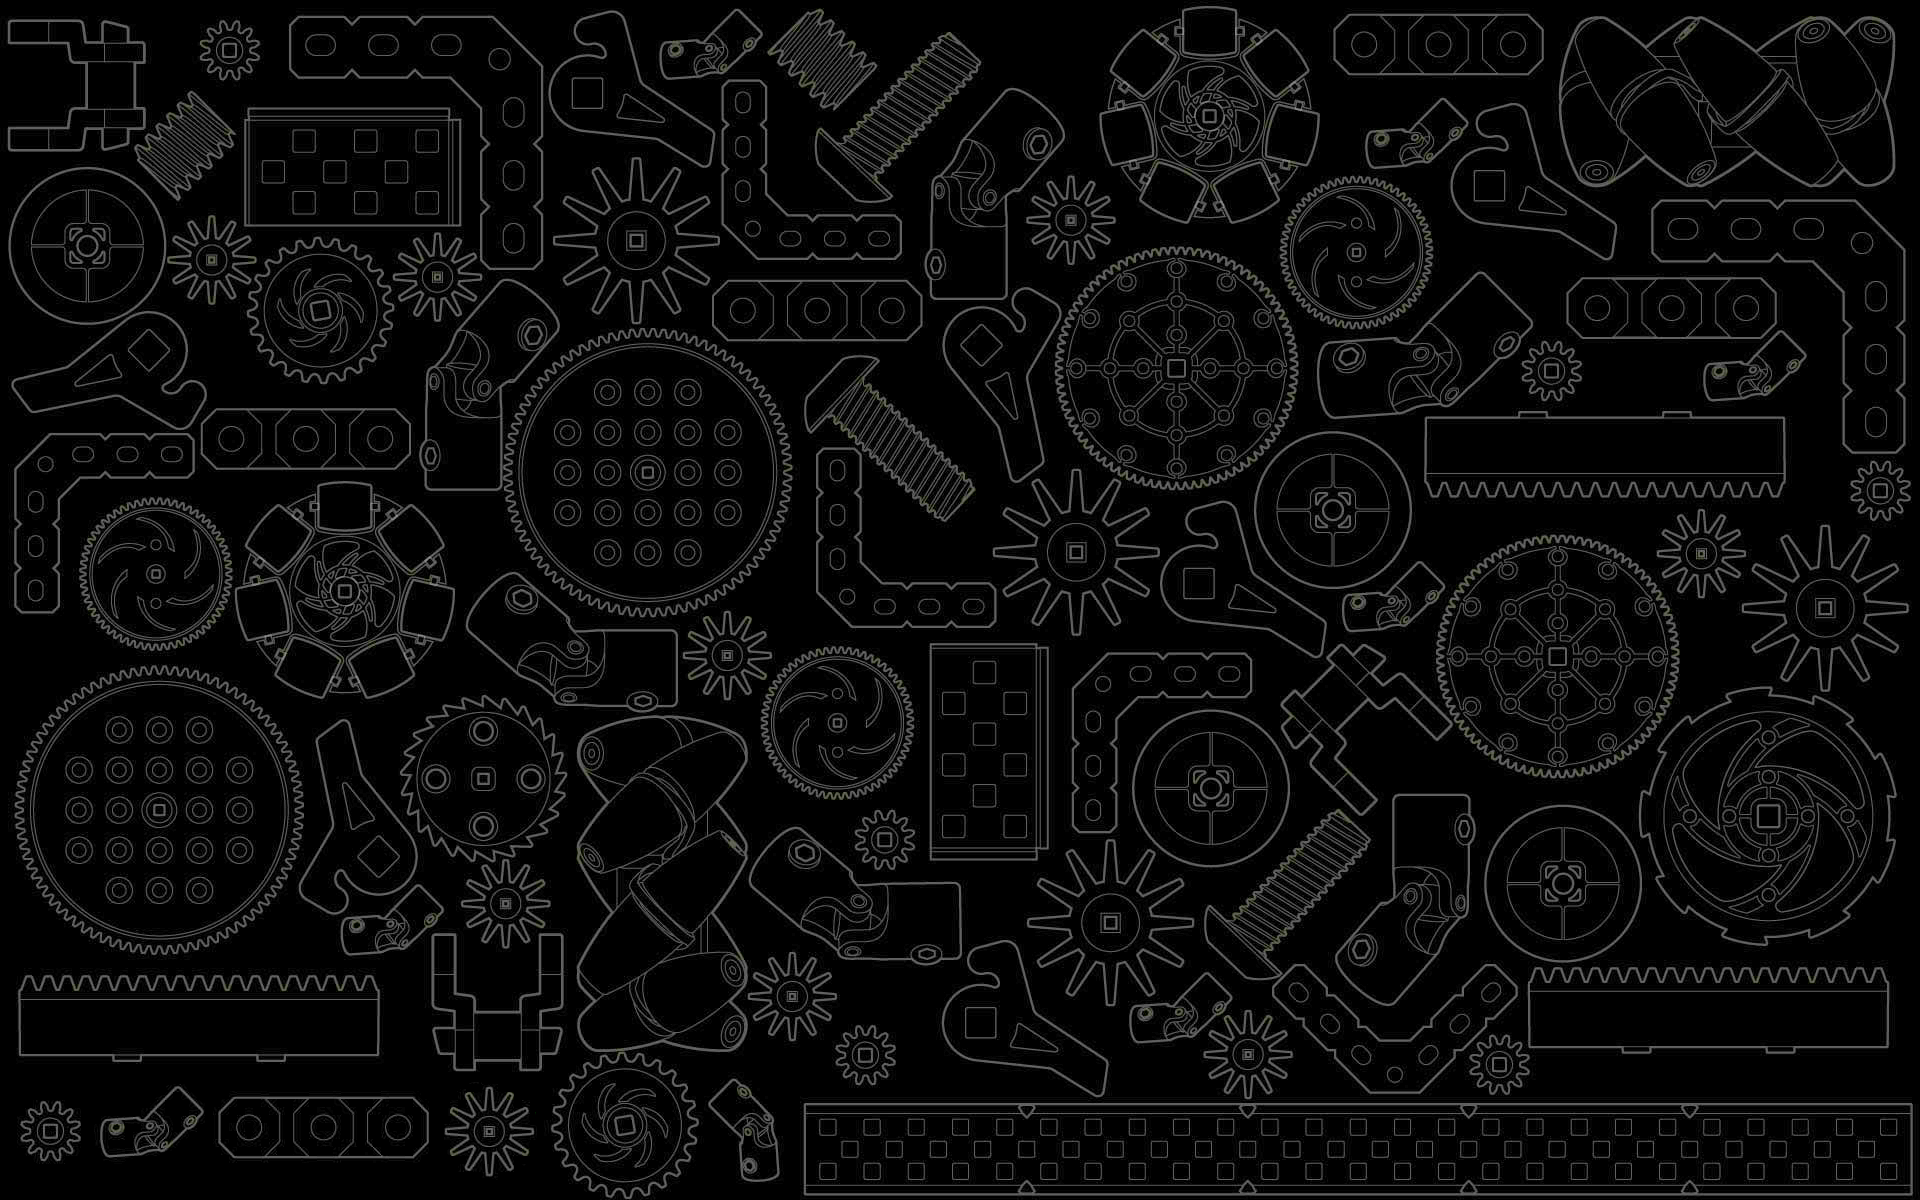
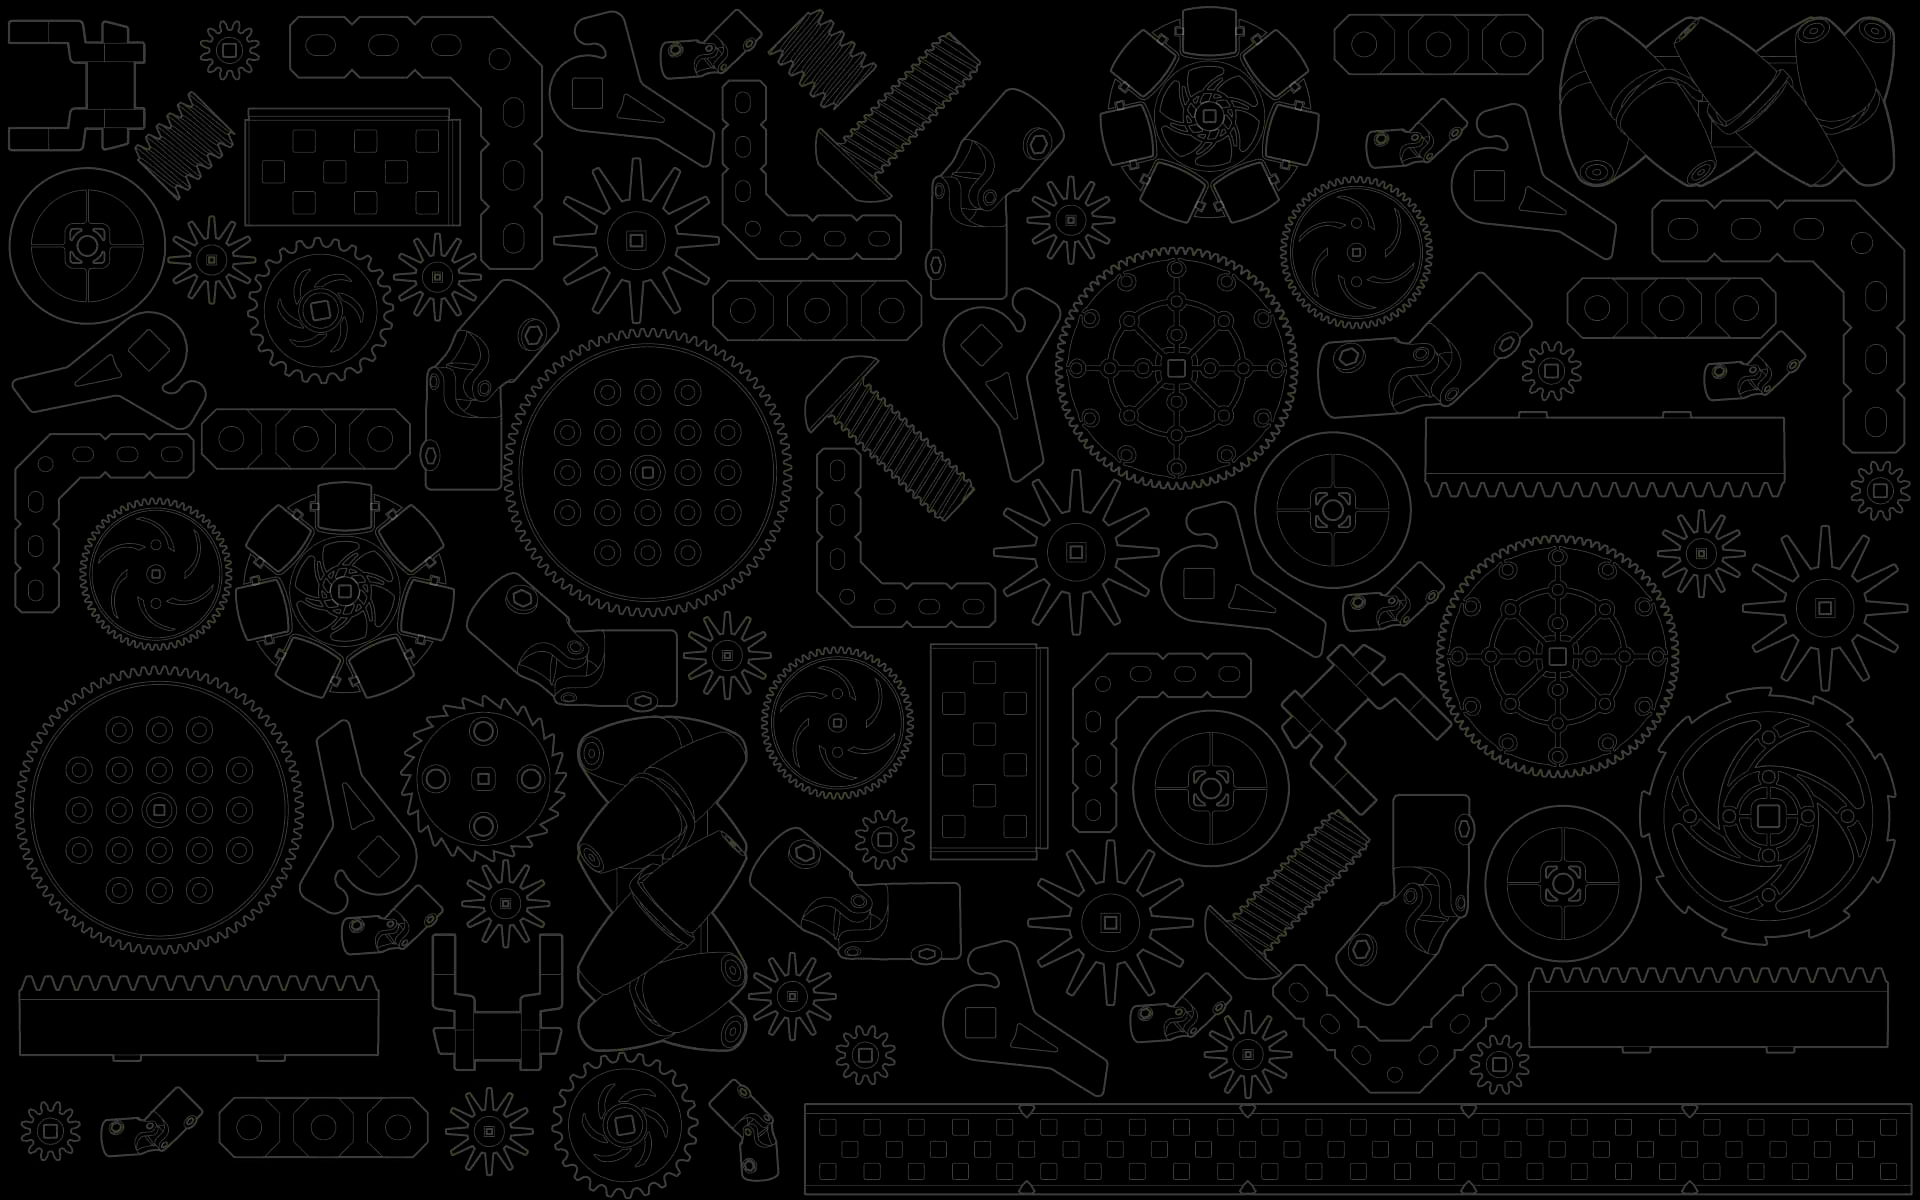
Remove old copy, darken image

diff --git a/index.html b/index.html
@@ -16,7 +16,7 @@
 
 <body>
     <section class="hero is-fullheight is-dark is-vrchero">
-        <div class="nav-header">
+        <!-- <div class="nav-header">
             <nav class="navbar is-transparent is-branded" role="navigation" aria-label="main navigation">
                 <div class="navbar-brand">
                     <a class="navbar-item" href="#">
@@ -45,30 +45,33 @@
                         </a>
                     </div>
             </nav>
-        </div>
+        </div> -->
         <div class="hero-body">
             <div class="container has-text-centered">
-                <img src="img/logo-white.svg" class="is-hidden-mobile" width="70%" style="background:black;">
-                <img src="img/presentedby_ihs_and_42.svg" style="width: 30%; min-width: 300px;">
-                <br>
-                <h2 class="subtitle"><span style="background:black;">February 16, 2019 &bull; 7:30AM&ndash;6:30PM<br>42
+                <img src="img/logo-white.svg" class="is-hidden-mobile" width="70%">
+                <br><br>
+                <h2 class="subtitle"><span>We'll be back for the 2019-2020 season.</span>
+                </h2>
+                <!-- <img src="img/presentedby_ihs_and_42.svg" style="width: 30%; min-width: 300px;">
+                <br> -->
+                <!-- <h2 class="subtitle"><span style="background:black;">February 16, 2019 &bull; 7:30AM&ndash;6:30PM<br>42
                         Silicon Valley &bull; 6600
-                        Dumbarton Circle, Fremont, CA</span></h2>
-                <h2 class="subtitle"><span style="background:black;">Your journey to Worlds starts here at the second
+                        Dumbarton Circle, Fremont, CA</span></h2> -->
+                <!-- <h2 class="subtitle"><span style="background:black;">Your journey to Worlds starts here at the second
                         annual Irvington VEX Robotics
-                        Competition.</span></h2>
+                        Competition.</span></h2> -->
                 <!-- <a class="button is-info is-medium" href="volunteer/form" id="volbtn">
                         <span>Volunteer</span>
                     </a>
                     -->
-                <h2 class="subtitle">
+                <!-- <h2 class="subtitle">
                     <a class="button is-info is-medium" href="./volunteer/form" id="volbtn">
                         <span>Volunteer</span>
                     </a>
                     <a class="button is-info is-medium" href="./event-updates" id="volbtn">
                         <span>Event Updates</span>
                     </a>
-                </h2>
+                </h2> -->
                 <br>
             </div>
         </div>
